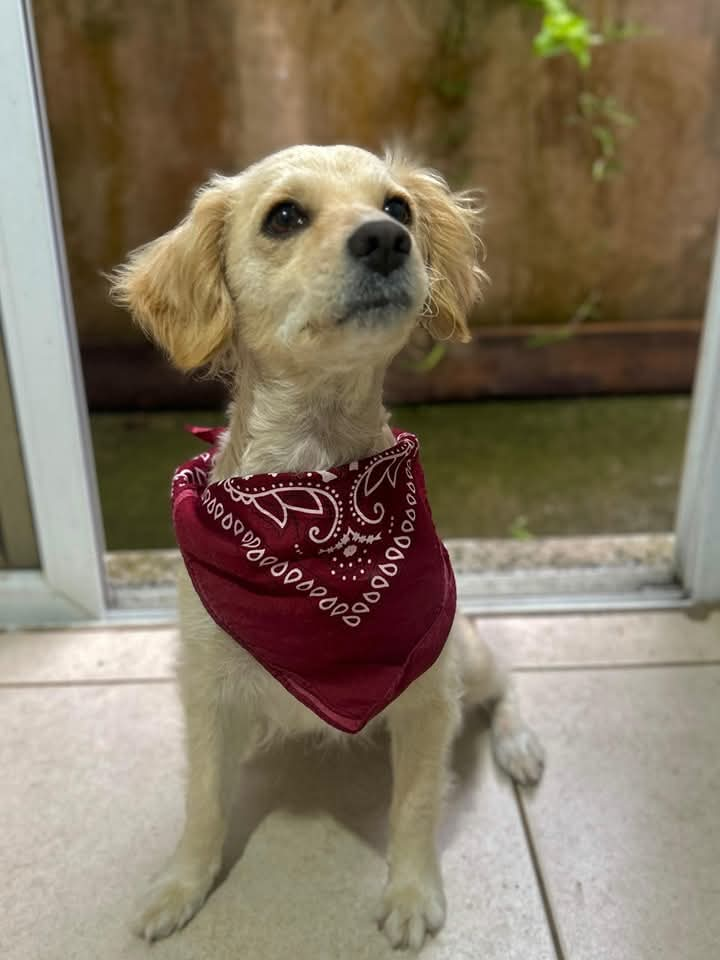
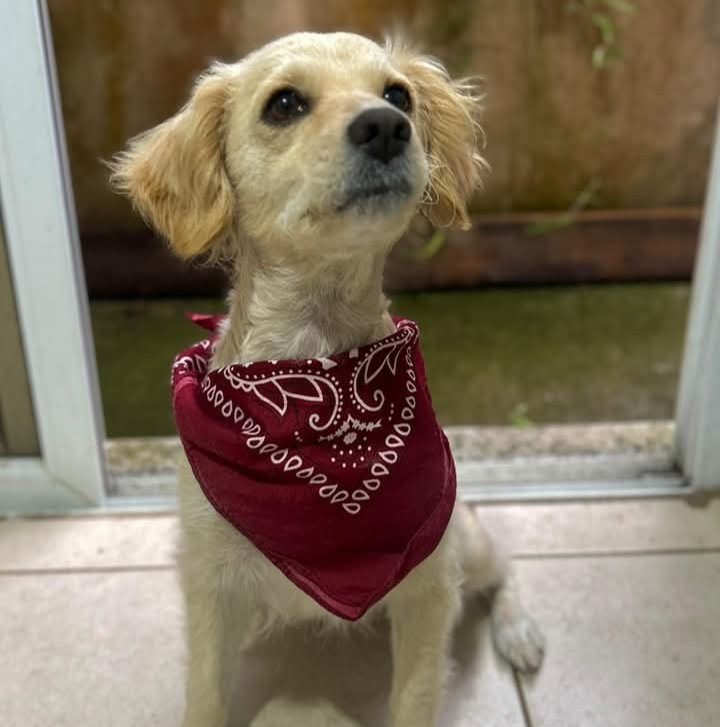
Scroll bar removida, fotos añadidas al carrusel

diff --git a/Index.html b/Index.html
@@ -66,16 +66,15 @@
                     <h3>Conoce a tu Nuevo Mejor Amigo</h3>
                     <br>
                     <div class="Carrusel">
-                        <div class="elemento"></div>
-                        <div class="elemento"></div>
-                        <div class="elemento"></div>
-                        <div class="elemento"></div>
-                        <div class="elemento"></div>
-                        <div class="elemento"></div>
-                        <div class="elemento"></div>
-                        <div class="elemento"></div>
-                        <div class="elemento"></div>
-                        <div class="elemento"></div>
+                        <div class="elemento"><img src="/Imagenes/Fotos para Adopción/Athos.jpeg" alt=""></div>
+                        <div class="elemento"><img src="/Imagenes/Fotos para Adopción/Chia.jpeg" alt=""></div>
+                        <div class="elemento"><img src="/Imagenes/Fotos para Adopción/Doki.jpeg" alt=""></div>
+                        <div class="elemento"><img src="/Imagenes/Fotos para Adopción/Hachi.jpeg" alt=""></div>
+                        <div class="elemento"><img src="/Imagenes/Fotos para Adopción/Luca.jpeg" alt=""></div>
+                        <div class="elemento"><img src="/Imagenes/Fotos para Adopción/Masimo.jpeg" alt=""></div>
+                        <div class="elemento"><img src="/Imagenes/Fotos para Adopción/Rammus.jpeg" alt=""></div>
+                        <div class="elemento"><img src="/Imagenes/Fotos para Adopción/Sif.jpeg" alt=""></div>
+                        <div class="elemento"><img src="/Imagenes/Fotos para Adopción/Sky.jpeg" alt=""></div>
                     </div>
                 </section>
             </div>
@@ -83,14 +82,29 @@
             <div class="ReportesyVoluntarios">
                 <section id="Reportes">
                     <h3>Reportes</h3>
-                    <p>Lorem ipsum dolor sit amet, consectetur adipisicing elit. Minima excepturi ipsam exercitationem laborum itaque aspernatur inventore ullam asperiores velit nihil laudantium ducimus nostrum sed, illo quidem vitae voluptatibus sunt reiciendis sit ab, dignissimos eum eaque debitis! Cupiditate nesciunt hic cum facere ab, debitis aspernatur perferendis? Accusantium, earum quos nesciunt quis minus amet quasi consequatur. Laudantium accusantium voluptatum placeat iusto in tenetur nihil quae dicta, facilis illum eum impedit esse, nisi cum quo illo distinctio dolorem voluptatem quis ratione eaque ducimus amet id sit! Dolorem veniam totam, ex earum molestiae inventore nisi cumque perspiciatis ipsam. Ipsa aliquid exercitationem amet reprehenderit nihil!</p>
+                    <p>Lorem ipsum dolor sit amet, consectetur adipisicing elit. Minima excepturi ipsam exercitationem
+                        laborum itaque aspernatur inventore ullam asperiores velit nihil laudantium ducimus nostrum sed,
+                        illo quidem vitae voluptatibus sunt reiciendis sit ab, dignissimos eum eaque debitis! Cupiditate
+                        nesciunt hic cum facere ab, debitis aspernatur perferendis? Accusantium, earum quos nesciunt
+                        quis minus amet quasi consequatur. Laudantium accusantium voluptatum placeat iusto in tenetur
+                        nihil quae dicta, facilis illum eum impedit esse, nisi cum quo illo distinctio dolorem
+                        voluptatem quis ratione eaque ducimus amet id sit! Dolorem veniam totam, ex earum molestiae
+                        inventore nisi cumque perspiciatis ipsam. Ipsa aliquid exercitationem amet reprehenderit nihil!
+                    </p>
                 </section>
             </div>
 
             <div class="VoluntariosyDona">
                 <section id="Voluntariados">
                     <h3>Voluntariados</h3>
-                    <p>Lorem, ipsum dolor sit amet consectetur adipisicing elit. Dolorum in impedit harum praesentium saepe nemo architecto id at autem incidunt sunt esse provident rerum nobis iste natus, error cupiditate consectetur sed soluta! Placeat ducimus alias error a necessitatibus quos, voluptate omnis. Itaque commodi sint quibusdam, cum sapiente praesentium autem quisquam perferendis sed dolore dignissimos, veniam explicabo nisi tenetur perspiciatis fugiat odio iste illo voluptates porro! Rerum ipsam dolore expedita! Nobis non, necessitatibus illum dolorum deleniti doloribus perferendis tempora! Hic atque, repudiandae cupiditate quod dolorum saepe. Pariatur vel amet, numquam, unde ab et consectetur, id commodi ullam voluptates aperiam libero labore?</p>
+                    <p>Lorem, ipsum dolor sit amet consectetur adipisicing elit. Dolorum in impedit harum praesentium
+                        saepe nemo architecto id at autem incidunt sunt esse provident rerum nobis iste natus, error
+                        cupiditate consectetur sed soluta! Placeat ducimus alias error a necessitatibus quos, voluptate
+                        omnis. Itaque commodi sint quibusdam, cum sapiente praesentium autem quisquam perferendis sed
+                        dolore dignissimos, veniam explicabo nisi tenetur perspiciatis fugiat odio iste illo voluptates
+                        porro! Rerum ipsam dolore expedita! Nobis non, necessitatibus illum dolorum deleniti doloribus
+                        perferendis tempora! Hic atque, repudiandae cupiditate quod dolorum saepe. Pariatur vel amet,
+                        numquam, unde ab et consectetur, id commodi ullam voluptates aperiam libero labore?</p>
                 </section>
             </div>
 

diff --git a/style.css b/style.css
@@ -153,7 +153,7 @@ header {
     gap: 20px;
 }
 
-.HeroyAdopcion{
+.HeroyAdopcion {
     background-color: var(--ColorKODA);
 }
 
@@ -161,18 +161,56 @@ header {
     background-color: var(--ColorKODA);
     border-end-end-radius: 100px;
     border-bottom-left-radius: 100px;
-    padding: 50px;
-
+    padding-top: 25px;
 }
+
+.Contenedor-General {
+    display: flex;
+}
+
 
 #Adopciones h3 {
-    font-size: clamp(35px, 2.5vw, 55px);
-    display: flex;
-    justify-content: center;
-    padding-top: 5px;
+    color: white;
+    text-align: center;
+    width: 95%;
+    min-width: 250px;
+    font-size: clamp(1.7rem, 2.5vw, 2.5rem);
 }
 
-.AdopcionyReportes{
+.Carrusel {
+    display: flex;
+    flex-wrap: nowrap;
+    overflow: scroll;
+    scrollbar-width: none;
+    /*Firefox*/
+    -ms-overflow-style: none;
+}
+
+.Carrusel::-webkit-scrollbar {
+    display: none;
+    /*Chrome,Safari,Opera*/
+}
+
+.elemento {
+    flex: 1 0 auto;
+    padding: 30px;
+    padding-top: 10px;
+}
+
+.elemento img {
+    max-width: 100%;
+    height: auto;
+    max-height: 300px;
+    border-radius: 25px;
+}
+
+
+.elemento img:hover {
+    cursor: pointer;
+    transform: scale(1.1);
+}
+
+.AdopcionyReportes {
     background-color: var(--ColorPrincipal);
 }
 
@@ -183,21 +221,9 @@ header {
     padding: 50px;
 }
 
-.Carrusel{
-    display: flex;
-    flex-wrap: nowrap;
-    overflow: scroll;
-}
 
-.elemento{
-    flex: 1 0 auto; /*No encoje*/
-    margin: 0 50px;
-    background-color: rgb(255, 255, 255);
-    width: 200px;
-    height: 200px;
-}
 
-.ReportesyVoluntarios{
+.ReportesyVoluntarios {
     background-color: var(--ColorKODA);
 }
 
@@ -210,7 +236,7 @@ header {
     align-items: center;
 }
 
-.VoluntariosyDona{
+.VoluntariosyDona {
     background-color: var(--ColorPrincipal);
 }
 
@@ -222,10 +248,6 @@ header {
 
 
 @media screen and (max-width: 550px) {
-
-    header {
-        margin-bottom: 5px;
-    }
 
     .HeroSection {
         margin: 0;
